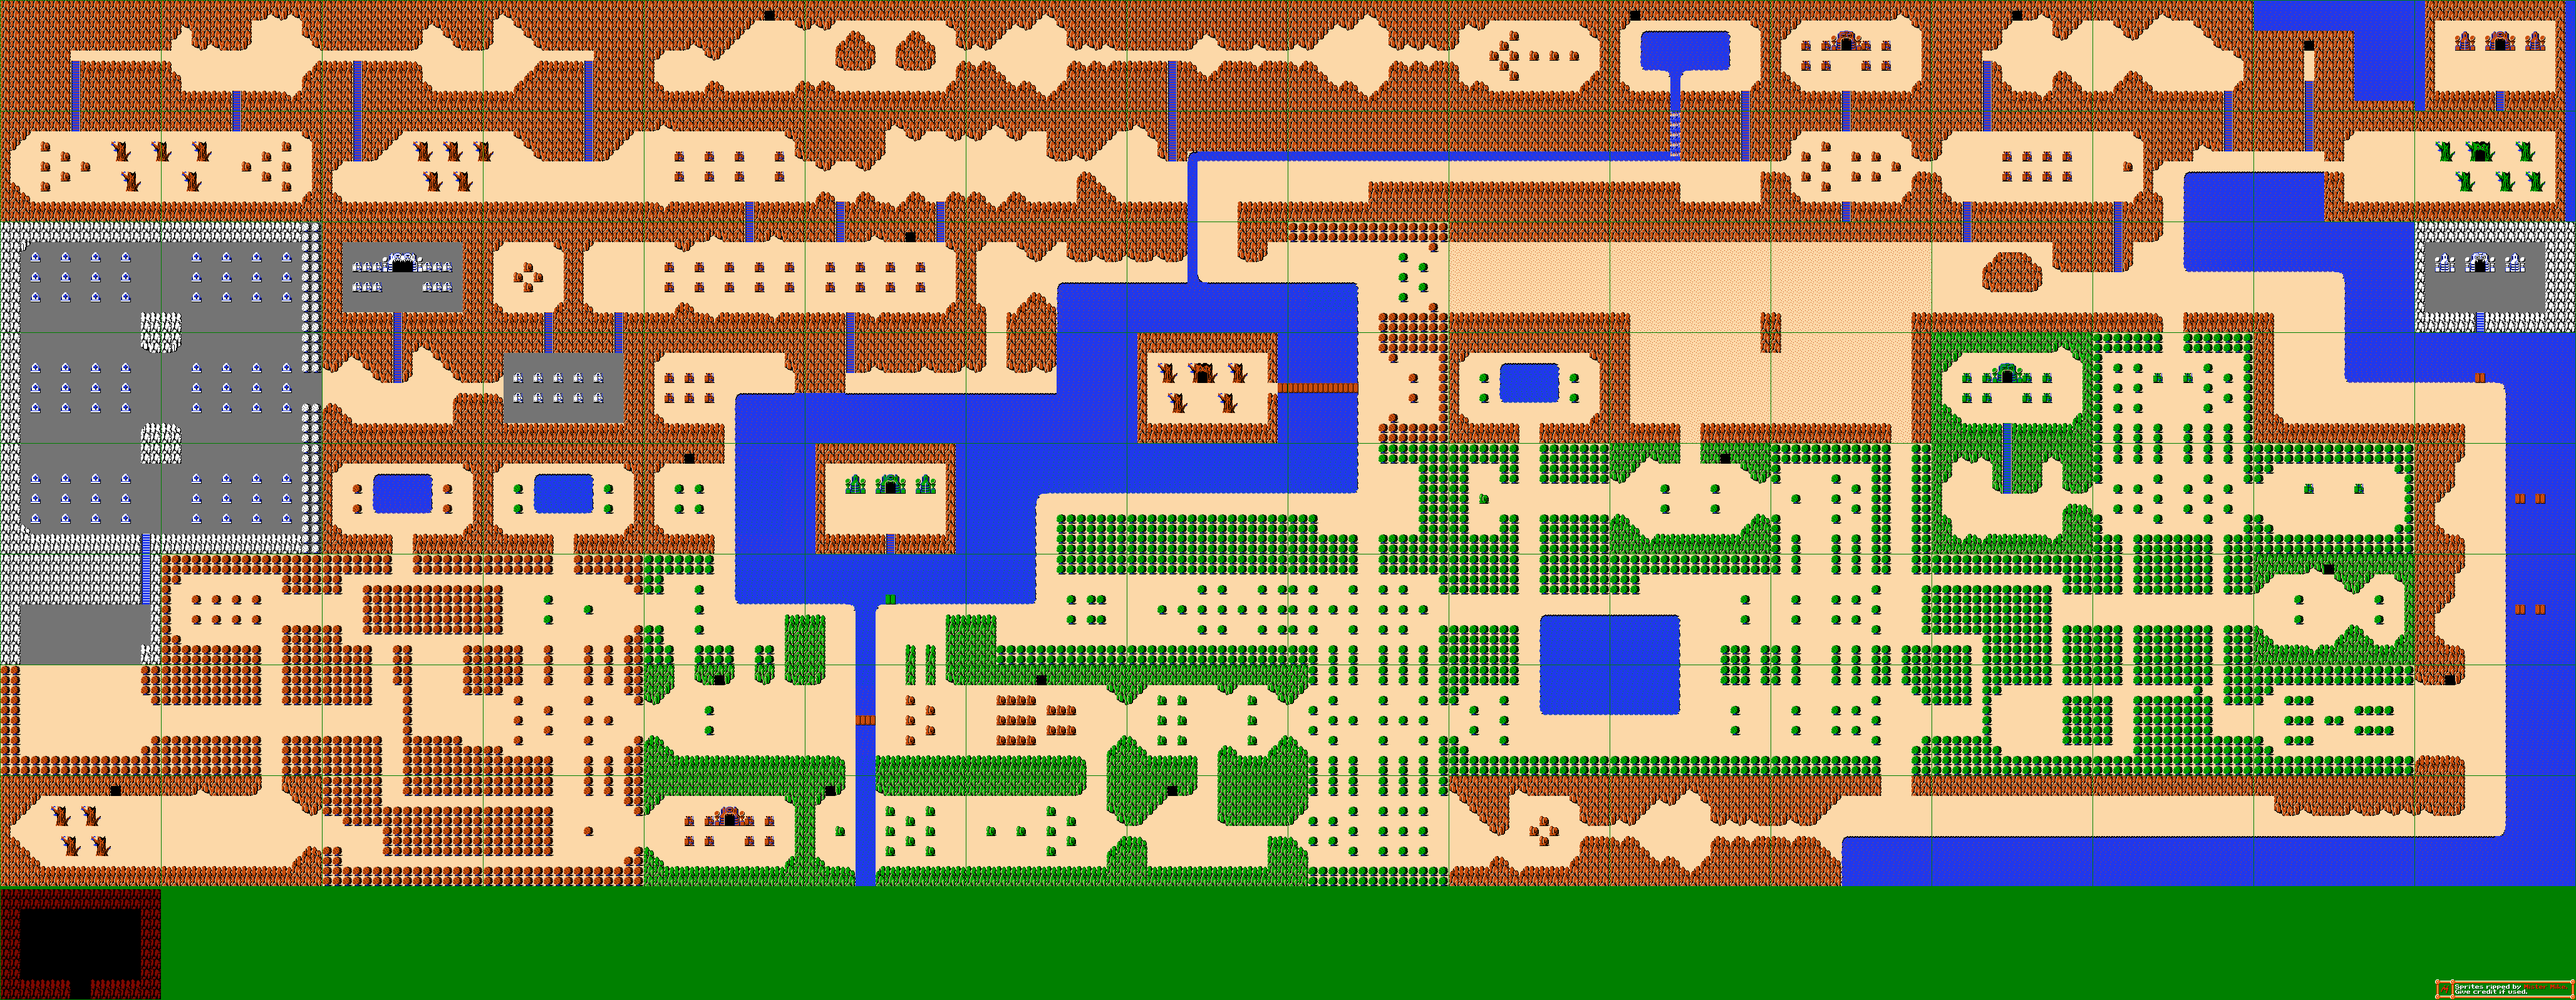
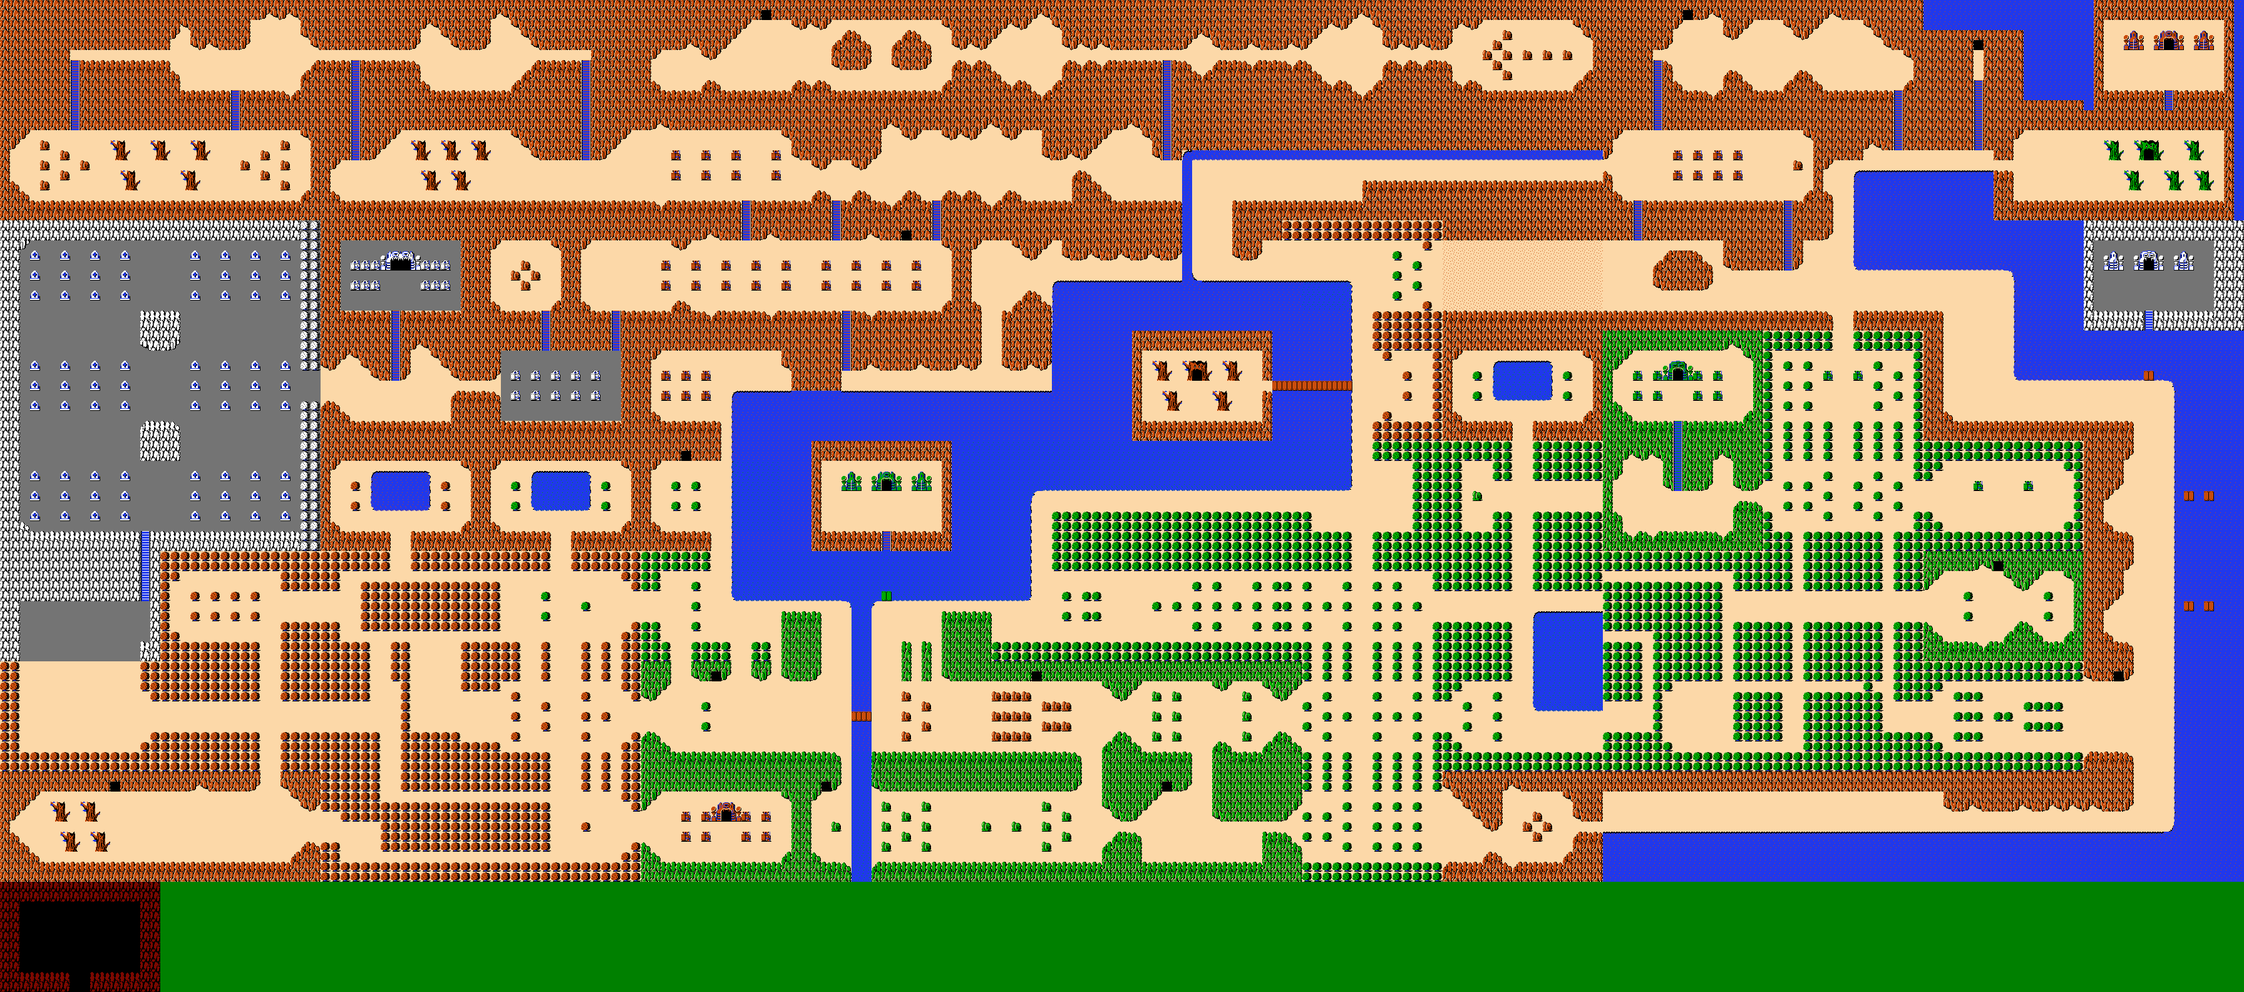
better scroll

diff --git a/src/room_scroll/ensure_player_within_camera_bounds.c b/src/room_scroll/ensure_player_within_camera_bounds.c
@@ -6,38 +6,23 @@ void ensure_player_within_camera_bounds(player_t *player, camera_t *camera) {
     if (!camera->is_scrolling) {
         return;
     }
-    // Obtenez la limite de la vue actuelle de la caméra
-    sfFloatRect view_bounds = get_view_bounds(camera->view);
 
-    // Convertir la taille de la vue en unités du monde
-    sfVector2f view_size_world = camera->size; // On suppose que la taille de la vue est déjà ajustée au niveau du monde
+    sfFloatRect adjusted_bounds = get_adjusted_bounds(camera, 1.0f, 1.0f);
 
-    // Obtenir les limites de la position du joueur dans le monde
     sfVector2f player_position = player->position;
 
-    // Définir les marges (seuil)
-    float margin_x = PLAYER_WIDTH + 15;
-    float margin_y = PLAYER_HEIGHT + 15;
-
-    // Corriger la position du joueur si nécessaire
-    // Empêcher le joueur de dépasser le bord gauche de la caméra
-    if (player_position.x < view_bounds.left + margin_x) {
-        player_position.x = view_bounds.left + margin_x;
+    if (player_position.x < adjusted_bounds.left) {
+        player_position.x = adjusted_bounds.left;
+    }
+    else if (player_position.x + PLAYER_WIDTH > adjusted_bounds.left + adjusted_bounds.width) {
+        player_position.x = adjusted_bounds.left + adjusted_bounds.width - PLAYER_WIDTH;
     }
 
-    // Empêcher le joueur de dépasser le bord droit de la caméra
-    if (player_position.x > view_bounds.left + view_size_world.x - margin_x) {
-        player_position.x = view_bounds.left + view_size_world.x - margin_x;
+    if (player_position.y < adjusted_bounds.top) {
+        player_position.y = adjusted_bounds.top;
     }
-
-    // Empêcher le joueur de dépasser le bord supérieur de la caméra
-    if (player_position.y < view_bounds.top + margin_y) {
-        player_position.y = view_bounds.top + margin_y;
-    }
-
-    // Empêcher le joueur de dépasser le bord inférieur de la caméra
-    if (player_position.y > view_bounds.top + view_size_world.y - margin_y) {
-        player_position.y = view_bounds.top + view_size_world.y - margin_y;
+    else if (player_position.y + PLAYER_HEIGHT > adjusted_bounds.top + adjusted_bounds.height) {
+        player_position.y = adjusted_bounds.top + adjusted_bounds.height - PLAYER_HEIGHT;
     }
 
     set_player_position(player, player_position);

diff --git a/src/room_scroll/player_reached_edge_of_screen.c b/src/room_scroll/player_reached_edge_of_screen.c
@@ -2,34 +2,16 @@
 
 sfBool player_reached_edge_of_screen(const player_t *player, const camera_t *camera)
 {
-    // Obtenez la limite de la vue actuelle de la caméra
-    sfFloatRect view_bounds = get_view_bounds(camera->view);
+    sfFloatRect adjusted_bounds = get_adjusted_bounds(camera, PLAYER_WIDTH, PLAYER_HEIGHT);
 
-    // Convertir la taille de la vue en unités du monde
-    sfVector2f view_size_world = camera->size; // On suppose que la taille de la vue est déjà ajustée au niveau du monde
-
-    // Obtenir les limites de la position du joueur dans le monde
     sfVector2f player_position = player->position;
 
-    // Calculer les marges (seuil) pour déclencher le scrolling. Ce seuil pourrait être une petite valeur
-    // ou égal à la largeur / hauteur du sprite du joueur pour un scrolling immédiat lorsque le joueur atteint le bord.
-    float margin_x = PLAYER_WIDTH;
-    float margin_y = PLAYER_HEIGHT;
-
-    // Vérifier si le joueur a atteint les bords de la vue de la caméra
-    if (player_position.x <= (view_bounds.left + margin_x)) {
-        return sfTrue; // Bord gauche atteint
-    }
-    if (player_position.x >= (view_bounds.left + view_size_world.x - margin_x)) {
-        return sfTrue; // Bord droit atteint
-    }
-    if (player_position.y <= ((view_bounds.top + margin_y) - PLAYER_HEIGHT)) {
-        return sfTrue; // Bord supérieur atteint
-    }
-    if (player_position.y >= (view_bounds.top + view_size_world.y - margin_y)) {
-        return sfTrue; // Bord inférieur atteint
+    if (player_position.x <= adjusted_bounds.left || 
+        player_position.x >= adjusted_bounds.left + adjusted_bounds.width ||
+        player_position.y <= adjusted_bounds.top ||
+        player_position.y >= adjusted_bounds.top + adjusted_bounds.height) {
+        return sfTrue;
     }
 
-    // Le joueur n'a pas atteint le bord
     return sfFalse;
 }

diff --git a/src/room_scroll/update_camera_for_room_scroll.c b/src/room_scroll/update_camera_for_room_scroll.c
@@ -1,4 +1,5 @@
 #include "room_scroll.h"
+#include <stdio.h>
 
 void update_camera_for_room_scroll(world_t *world, float delta_time)
 {
@@ -6,23 +7,17 @@ void update_camera_for_room_scroll(world_t *world, float delta_time)
     camera_t *camera = world->camera;
 
     if (player_reached_edge_of_screen(player, camera)) {
-        // Calculez la nouvelle position de la caméra pour la nouvelle salle
+        world->player->can_move = sfFalse;
+        
         sfVector2f new_camera_pos = calculate_new_camera_position(camera, player);
 
-        // Commencez à interpoler la position de la caméra vers la nouvelle salle
         start_camera_scroll(camera, player, new_camera_pos, 1.0);
-
-        // Empêchez le joueur de se déplacer pendant le scrolling
-        world->player->can_move = sfFalse;
     }
 
-    // Si la caméra est en train de défiler, mettez à jour sa position
     if (camera->is_scrolling) {
         continue_camera_scroll(camera, delta_time);
         
-        // Vérifiez si le scrolling est terminé
         if (camera_reached_new_room(camera)) {
-            // Scrolling terminé, permettez au joueur de bouger à nouveau
             world->player->can_move = sfTrue;
         }
     }

diff --git a/src/room_scroll/camera_reached_new_room.c b/src/room_scroll/camera_reached_new_room.c
@@ -2,25 +2,17 @@
 
 sfBool camera_reached_new_room(camera_t *camera)
 {
-    // On obtient la position actuelle de la caméra
     sfVector2f current_position = sfView_getCenter(camera->view);
 
-    // On compare la position actuelle de la caméra avec la position cible.
-    // En supposant que vous voulez une certaine tolérance sur la position en raison
-    // de possibles imprécisions en virgule flottante, vous pouvez utiliser une petite valeur 'epsilon'.
-    const float epsilon = 0.01f; // Vous pouvez ajuster cette valeur à vos besoins.
+    const float epsilon = 0.01f;
     
-    // Calculez la différence entre la position actuelle et la cible
     sfVector2f difference;
     difference.x = fabsf(camera->target_position.x - current_position.x);
     difference.y = fabsf(camera->target_position.y - current_position.y);
 
-    // Vérifiez si la caméra est proche de la position cible à l'intérieur de la tolérance 'epsilon'
     if (difference.x <= epsilon && difference.y <= epsilon) {
-        // La caméra a atteint la nouvelle "pièce" ou section.
         return sfTrue;
     }
 
-    // La caméra n'a pas encore atteint la nouvelle section.
     return sfFalse;
 }

diff --git a/src/room_scroll/continue_camera_scroll.c b/src/room_scroll/continue_camera_scroll.c
@@ -1,31 +1,25 @@
 #include "room_scroll.h"
 
-// Fonction pour continuer le défilement de la caméra à chaque frame
 void continue_camera_scroll(camera_t *camera, float delta_time)
 {
     if (!camera->is_scrolling) {
         return;
     }
 
-    // Augmenter le temps écoulé
     camera->current_scroll += delta_time;
 
-    // Calculer la progression
     float t = camera->current_scroll / camera->scroll_time;
     if (t > 1.0f) {
         t = 1.0f;
         camera->is_scrolling = sfFalse;
     }
 
-    // Calculer la nouvelle position en interpolant entre le début et la fin
     sfVector2f new_position;
     new_position.x = camera->start_position.x + t * (camera->target_position.x - camera->start_position.x);
     new_position.y = camera->start_position.y + t * (camera->target_position.y - camera->start_position.y);
 
-    // Appliquer la nouvelle position à la vue de la caméra
     sfView_setCenter(camera->view, new_position);
 
-    // Si t == 1.0f, alors le défilement est terminé
     if (t == 1.0f) {
         camera->is_scrolling = sfFalse;
     }

diff --git a/src/room_scroll/calculate_new_camera_position.c b/src/room_scroll/calculate_new_camera_position.c
@@ -6,16 +6,16 @@ sfVector2f calculate_new_camera_position(camera_t *camera, player_t *player)
 
     switch (player->direction) {
         case PLAYER_DIRECTION_UP:
-            new_camera_pos.y -= camera->size.y; // Déplacez la caméra vers le haut d'une hauteur d'écran
+            new_camera_pos.y -= camera->size.y;
             break;
         case PLAYER_DIRECTION_DOWN:
-            new_camera_pos.y += camera->size.y; // Déplacez la caméra vers le bas d'une hauteur d'écran
+            new_camera_pos.y += camera->size.y;
             break;
         case PLAYER_DIRECTION_LEFT:
-            new_camera_pos.x -= camera->size.x; // Déplacez la caméra vers la gauche d'une largeur d'écran
+            new_camera_pos.x -= camera->size.x;
             break;
         case PLAYER_DIRECTION_RIGHT:
-            new_camera_pos.x += camera->size.x; // Déplacez la caméra vers la droite d'une largeur d'écran
+            new_camera_pos.x += camera->size.x;
             break;
     }
 

diff --git a/src/world/create_world.c b/src/world/create_world.c
@@ -10,8 +10,8 @@ void init_window(world_t *world)
 sfVector2f calculate_spawn_tile_pos(void)
 {
     sfVector2f tile_center = {
-        (SPAWN_TILE_X * (TILE_WIDTH + 1)) + ((TILE_WIDTH + 1) / 2),
-        (SPAWN_TILE_Y * (TILE_HEIGHT + 1)) + ((TILE_HEIGHT + 1) / 2)
+        (SPAWN_TILE_X * TILE_WIDTH) + (TILE_WIDTH / 2),
+        (SPAWN_TILE_Y * TILE_HEIGHT) + (TILE_HEIGHT / 2)
     };
     return tile_center;
 }
@@ -30,7 +30,7 @@ world_t *create_world(void)
     world->map = create_object(
         MAP_FILE_PATH,
         (sfVector2f){0, 0},
-        (sfIntRect){1, 1, MAP_WIDTH, MAP_HEIGHT}
+        (sfIntRect){0, 0, MAP_WIDTH, MAP_HEIGHT}
     );
 
     world->camera = create_camera(

diff --git a/include/room_scroll.h b/include/room_scroll.h
@@ -14,5 +14,6 @@ sfFloatRect get_view_bounds(const sfView *view);
 sfBool player_reached_edge_of_screen(const player_t *player, const camera_t *camera);
 void start_camera_scroll(camera_t *camera, player_t *player, sfVector2f new_target_position, float time);
 void update_camera_for_room_scroll(world_t *world, float delta_time);
+sfFloatRect get_adjusted_bounds(const camera_t *camera, float margin_x, float margin_y);
 
 #endif // __ROOM_SCROLL_H_

diff --git a/src/room_scroll/get_view_bounds.c b/src/room_scroll/get_view_bounds.c
@@ -6,8 +6,6 @@ sfFloatRect get_view_bounds(const sfView *view)
     sfVector2f center = sfView_getCenter(view);
     sfVector2f size = sfView_getSize(view);
 
-    // La vue est centrée autour du point de centre, donc on doit calculer
-    // les coins supérieur gauche (x, y) du rectangle de la vue.
     view_bounds.left = center.x - size.x / 2;
     view_bounds.top = center.y - size.y / 2;
     view_bounds.width = size.x;

diff --git a/src/room_scroll/get_adjusted_bounds.c b/src/room_scroll/get_adjusted_bounds.c
@@ -1,0 +1,12 @@
+#include "room_scroll.h"
+
+sfFloatRect get_adjusted_bounds(const camera_t *camera, float margin_x, float margin_y)
+{
+    sfFloatRect view_bounds = get_view_bounds(camera->view);
+    view_bounds.left += margin_x;
+    view_bounds.top += margin_y;
+    view_bounds.width -= margin_x * 2;
+    view_bounds.height -= margin_y * 2;
+
+    return view_bounds;
+}

diff --git a/src/player/move_player.c b/src/player/move_player.c
@@ -5,6 +5,6 @@ void move_player(player_t *player, sfVector2f offset)
     if (player->can_move == sfTrue) {
         player->position.x += offset.x;
         player->position.y += offset.y;
-        sfSprite_setPosition(player->object->sprite, player->position);
+        sfSprite_move(player->object->sprite, offset);
     }
 }

diff --git a/src/room_scroll/start_camera_scroll.c b/src/room_scroll/start_camera_scroll.c
@@ -3,7 +3,7 @@
 void start_camera_scroll(camera_t *camera, player_t *player, sfVector2f new_target_position, float time)
 {
     if (camera->is_scrolling) {
-        return; // La caméra est déjà en train de défiler
+        return;
     }
 
     camera->is_scrolling = sfTrue;
